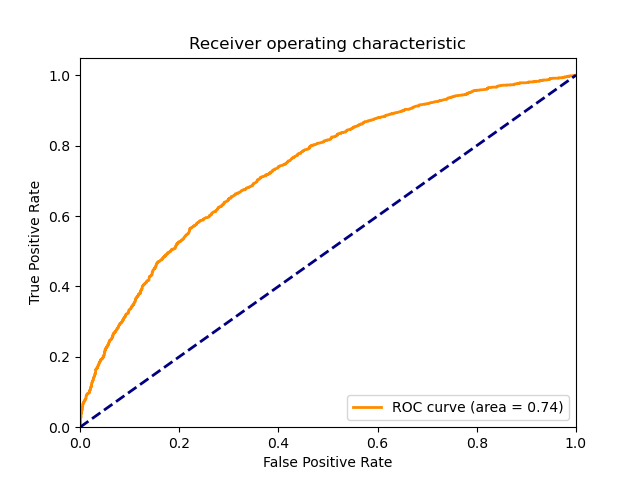
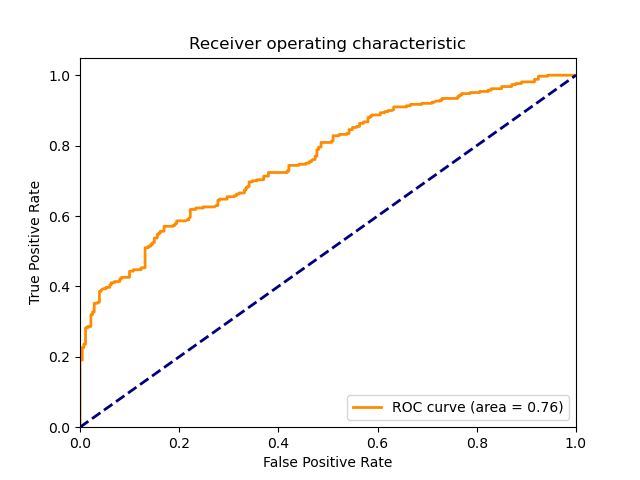
resnet50 test

diff --git a/nets/Resnet_raw.py b/nets/Resnet_raw.py
@@ -1,0 +1,204 @@
+import torch.nn as nn
+import torch
+
+
+class BasicBlock(nn.Module):
+    expansion = 1
+
+    def __init__(self, in_channel, out_channel, stride=1, downsample=None, **kwargs):
+        super(BasicBlock, self).__init__()
+        self.conv1 = nn.Conv2d(in_channels=in_channel, out_channels=out_channel,
+                               kernel_size=3, stride=stride, padding=1, bias=False)
+        self.bn1 = nn.BatchNorm2d(out_channel)
+        self.relu = nn.ReLU()
+        self.conv2 = nn.Conv2d(in_channels=out_channel, out_channels=out_channel,
+                               kernel_size=3, stride=1, padding=1, bias=False)
+        self.bn2 = nn.BatchNorm2d(out_channel)
+        self.downsample = downsample
+
+    def forward(self, x):
+        identity = x
+        if self.downsample is not None:
+            identity = self.downsample(x)
+
+        out = self.conv1(x)
+        out = self.bn1(out)
+        out = self.relu(out)
+
+        out = self.conv2(out)
+        out = self.bn2(out)
+
+        out += identity
+        out = self.relu(out)
+
+        return out
+
+
+class Bottleneck(nn.Module):
+    """
+    注意：原论文中，在虚线残差结构的主分支上，第一个1x1卷积层的步距是2，第二个3x3卷积层步距是1。
+    但在pytorch官方实现过程中是第一个1x1卷积层的步距是1，第二个3x3卷积层步距是2，
+    这么做的好处是能够在top1上提升大概0.5%的准确率。
+    可参考Resnet v1.5 https://ngc.nvidia.com/catalog/model-scripts/nvidia:resnet_50_v1_5_for_pytorch
+    """
+    expansion = 4
+
+    def __init__(self, in_channel, out_channel, stride=1, downsample=None,
+                 groups=1, width_per_group=64):
+        super(Bottleneck, self).__init__()
+
+        width = int(out_channel * (width_per_group / 64.)) * groups
+
+        self.conv1 = nn.Conv2d(in_channels=in_channel, out_channels=width,
+                               kernel_size=1, stride=1, bias=False)  # squeeze channels
+        self.bn1 = nn.BatchNorm2d(width)
+        # -----------------------------------------
+        self.conv2 = nn.Conv2d(in_channels=width, out_channels=width, groups=groups,
+                               kernel_size=3, stride=stride, bias=False, padding=1)
+        self.bn2 = nn.BatchNorm2d(width)
+        # -----------------------------------------
+        self.conv3 = nn.Conv2d(in_channels=width, out_channels=out_channel*self.expansion,
+                               kernel_size=1, stride=1, bias=False)  # unsqueeze channels
+        self.bn3 = nn.BatchNorm2d(out_channel*self.expansion)
+        self.relu = nn.ReLU(inplace=True)
+        self.downsample = downsample
+
+    def forward(self, x):
+        identity = x
+        if self.downsample is not None:
+            identity = self.downsample(x)
+
+        out = self.conv1(x)
+        out = self.bn1(out)
+        out = self.relu(out)
+
+        out = self.conv2(out)
+        out = self.bn2(out)
+        out = self.relu(out)
+
+        out = self.conv3(out)
+        out = self.bn3(out)
+
+        out += identity
+        out = self.relu(out)
+
+        return out
+
+
+class ResNet(nn.Module):
+
+    def __init__(self,
+                 block,
+                 blocks_num,
+                 num_classes=1000,
+                 include_top=True,
+                 groups=1,
+                 width_per_group=64):
+        super(ResNet, self).__init__()
+        self.include_top = include_top
+        self.in_channel = 64
+
+        self.groups = groups
+        self.width_per_group = width_per_group
+
+        self.conv1 = nn.Conv2d(3, self.in_channel, kernel_size=7, stride=2,
+                               padding=3, bias=False)
+        self.bn1 = nn.BatchNorm2d(self.in_channel)
+        self.relu = nn.ReLU(inplace=True)
+        self.maxpool = nn.MaxPool2d(kernel_size=3, stride=2, padding=1)
+        self.layer1 = self._make_layer(block, 64, blocks_num[0])
+        self.layer2 = self._make_layer(block, 128, blocks_num[1], stride=2)
+        self.layer3 = self._make_layer(block, 256, blocks_num[2], stride=2)
+        self.layer4 = self._make_layer(block, 512, blocks_num[3], stride=2)
+        if self.include_top:
+            self.avgpool = nn.AdaptiveAvgPool2d((1, 1))  # output size = (1, 1)
+            self.fc = nn.Linear(512 * block.expansion, num_classes)
+
+        for m in self.modules():
+            if isinstance(m, nn.Conv2d):
+                nn.init.kaiming_normal_(m.weight, mode='fan_out', nonlinearity='relu')
+
+    def _make_layer(self, block, channel, block_num, stride=1):
+        downsample = None
+        if stride != 1 or self.in_channel != channel * block.expansion:
+            downsample = nn.Sequential(
+                nn.Conv2d(self.in_channel, channel * block.expansion, kernel_size=1, stride=stride, bias=False),
+                nn.BatchNorm2d(channel * block.expansion))
+
+        layers = []
+        layers.append(block(self.in_channel,
+                            channel,
+                            downsample=downsample,
+                            stride=stride,
+                            groups=self.groups,
+                            width_per_group=self.width_per_group))
+        self.in_channel = channel * block.expansion
+
+        for _ in range(1, block_num):
+            layers.append(block(self.in_channel,
+                                channel,
+                                groups=self.groups,
+                                width_per_group=self.width_per_group))
+
+        return nn.Sequential(*layers)
+
+    def forward(self, x):
+        x = self.conv1(x)
+        x = self.bn1(x)
+        x = self.relu(x)
+        x = self.maxpool(x)
+
+        x = self.layer1(x)
+        x = self.layer2(x)
+        x = self.layer3(x)
+        x = self.layer4(x)
+
+        if self.include_top:
+            x = self.avgpool(x)
+            x = torch.flatten(x, 1)
+            x = self.fc(x)
+
+        return x
+
+
+def resnet34(num_classes=1000, include_top=True):
+    # https://download.pytorch.org/models/resnet34-333f7ec4.pth
+    return ResNet(BasicBlock, [3, 4, 6, 3], num_classes=num_classes, include_top=include_top)
+
+
+def resnet50(num_classes=1000, include_top=True):
+    # https://download.pytorch.org/models/resnet50-19c8e357.pth
+    return ResNet(Bottleneck, [3, 4, 6, 3], num_classes=num_classes, include_top=include_top)
+
+
+def resnet101(num_classes=1000, include_top=True):
+    # https://download.pytorch.org/models/resnet101-5d3b4d8f.pth
+    return ResNet(Bottleneck, [3, 4, 23, 3], num_classes=num_classes, include_top=include_top)
+
+
+def resnext50_32x4d(num_classes=1000, include_top=True):
+    # https://download.pytorch.org/models/resnext50_32x4d-7cdf4587.pth
+    groups = 32
+    width_per_group = 4
+    return ResNet(Bottleneck, [3, 4, 6, 3],
+                  num_classes=num_classes,
+                  include_top=include_top,
+                  groups=groups,
+                  width_per_group=width_per_group)
+
+
+def resnext101_32x8d(num_classes=1000, include_top=True):
+    # https://download.pytorch.org/models/resnext101_32x8d-8ba56ff5.pth
+    groups = 32
+    width_per_group = 8
+    return ResNet(Bottleneck, [3, 4, 23, 3],
+                  num_classes=num_classes,
+                  include_top=include_top,
+                  groups=groups,
+                  width_per_group=width_per_group)
+
+if __name__ == "__main__":
+    model = resnet50(num_classes=128, include_top=True)
+    x = torch.zeros([2,3,112,112])
+    out = model(x)
+    print("test")

diff --git a/train.py b/train.py
@@ -64,7 +64,7 @@ if __name__ == "__main__":
     #   如果使用mobilenetv1为主干,  则设置pretrain = True
     #   如果使用其它网络为主干，    则设置pretrain = False
     # --------------------------------------------------------#
-    backbone = "mobilefacenet_cbam_v3"
+    backbone = "resnet50"
     # ----------------------------------------------------------------------------------------------------------------------------#
     #   如果训练过程中存在中断训练的操作，可以将model_path设置成logs文件夹下的权值文件，将已经训练了一部分的权值再次载入。
     #   同时修改下方的训练的参数，来保证模型epoch的连续性。
@@ -75,7 +75,7 @@ if __name__ == "__main__":
     #   如果想要让模型从主干的预训练权值开始训练，则设置model_path = ''，pretrain = True，此时仅加载主干。
     #   如果想要让模型从0开始训练，则设置model_path = ''，pretrain = Fasle，此时从0开始训练。
     # ----------------------------------------------------------------------------------------------------------------------------#
-    model_path = "logs/ep001-loss24.053-val_loss22.590.pth"
+    model_path = ""
     # ----------------------------------------------------------------------------------------------------------------------------#
     #   是否使用主干网络的预训练权重，此处使用的是主干的权重，因此是在模型构建的时候进行加载的。
     #   如果设置了model_path，则主干的权值无需加载，pretrained的值无意义。
@@ -109,7 +109,7 @@ if __name__ == "__main__":
     # ------------------------------------------------------#
     Init_Epoch = 1
     Epoch = 50
-    batch_size = 64
+    batch_size = 4
 
     # ------------------------------------------------------------------#
     #   其它训练参数：学习率、优化器、学习率下降有关

diff --git a/nets/arcface.py b/nets/arcface.py
@@ -13,8 +13,7 @@ from nets.mobilefacenet_cbam_modify import get_mbf_cbam_modify
 from nets.mobilefacenet_cbam_v2 import get_mbf_cbam_v2
 from nets.mobilefacenet_cbam_v3 import get_mbf_cbam_v3
 from nets.mobilefacenet_cbam_v4 import get_mbf_cbam_v4
-
-
+from nets.Resnet_raw import resnet50
 class Arcface_Head(Module):
     def __init__(self, embedding_size=128, num_classes=10575, s=64., m=0.5):
         super(Arcface_Head, self).__init__()
@@ -47,6 +46,10 @@ class Arcface(nn.Module):
             embedding_size  = 128
             s               = 32
             self.arcface    = get_mbf(embedding_size=embedding_size, pretrained=pretrained)
+        elif backbone == "resnet50":
+            embedding_size  = 128
+            s               = 32
+            self.arcface    = resnet50(num_classes= embedding_size, include_top=True)
 
         elif backbone == "convNext":
             embedding_size = 512
@@ -86,6 +89,7 @@ class Arcface(nn.Module):
             self.head = Arcface_Head(embedding_size=embedding_size, num_classes=num_classes, s=s)
 
     def forward(self, x, y = None, mode = "predict"):
+
         x = self.arcface(x)
 
         x = x.view(x.size()[0], -1)
@@ -97,3 +101,9 @@ class Arcface(nn.Module):
             x = self.head(x, y)
             return x
 
+if __name__ == "__main__":
+    model =Arcface(backbone=resnet50)
+
+    x = torch.zeros([2,3,112,112])
+    out = model(x)
+    print("test")

diff --git a/eval_LFW.py b/eval_LFW.py
@@ -23,7 +23,7 @@ if __name__ == "__main__":
     #   iresnet100
     #   iresnet200
     #--------------------------------------#
-    backbone        = "mobilefacenet_cbam_v2"
+    backbone        = "mobilefacenet_cbam_v4"
     #--------------------------------------#
     #   输入图像大小
     #--------------------------------------#
@@ -31,13 +31,13 @@ if __name__ == "__main__":
     #--------------------------------------#
     #   训练好的权值文件
     #--------------------------------------#
-    model_path      = "result/mobilefacenet-webocc_cbam_mlfw_v2/ep050-loss14.097-val_loss14.346.pth"
+    model_path      = "result/mobilefacenet_cbam_web_v4/ep030-loss7.562-val_loss8.903.pth"
     #--------------------------------------#
     #   LFW评估数据集的文件路径
     #   以及对应的txt文件
     #--------------------------------------#
-    lfw_dir_path    = "ROF/combined"
-    lfw_pairs_path  = "ROF/ROFCombine_m_un_pairs_clean.txt"
+    lfw_dir_path    = "mfr2"
+    lfw_pairs_path  = "mfr2_pairs.txt"
     #--------------------------------------#
     #   评估的批次大小和记录间隔
     #--------------------------------------#

diff --git a/draw_cam.py b/draw_cam.py
@@ -67,8 +67,8 @@ if __name__ == "__main__":
     # --------------------------------------#
     backbone1 = "mobilefacenet"
     model_path1 = "result/mobileface-webocc-lfw/ep050-loss4.382-val_loss5.188.pth"
-    backbone2 = "convNext_cbam"
-    model_path2 = "result/conv_cbam_webocc_mlfw_modify/ep050-loss18.635-val_loss18.473.pth"
+    backbone2 = "mobilefacenet_cbam_v4"
+    model_path2 = "result/mobilefacenet_cbam_web_v4/ep030-loss7.562-val_loss8.903.pth"
     # --------------------------------------#
     #   输入图像大小
     # --------------------------------------#
@@ -107,7 +107,7 @@ if __name__ == "__main__":
     model2 = Arcface(backbone=backbone2, mode="predict")
     model2.load_state_dict(torch.load(model_path2, map_location=device), strict=False)
     model2 = model2.eval()
-    target_layers2 = [model2.arcface.stages[3]]
+    target_layers2 = [model2.arcface.sep]
 
     for batch in test_loader:
         if time <= num:

diff --git a/utils/test_pairs_anno_gen.py b/utils/test_pairs_anno_gen.py
@@ -8,6 +8,7 @@ match_list = []
 unmatch_list = []
 
 class_list = []
+MFR2 = "D:\\Files\\arcface-pytorch\\mfr2"
 COMBINE_PATH = "D:\\Files\\arcface-pytorch\\ROF\\combined"
 
 MASK_PATH = 'D:\\Files\\Dissertation\\ROF\\masked'
@@ -93,11 +94,11 @@ def CEF(path):
 if __name__ == "__main__":
 
     # CEF(GLASSES_PATH)
-    unmatch_list = generate_unmatch_list(COMBINE_PATH)
-    match_list = generate_match_list(COMBINE_PATH)
+    unmatch_list = generate_unmatch_list(MFR2)
+    match_list = generate_match_list(MFR2)
     combined_list = unmatch_list + match_list
     random.shuffle(combined_list)
-    f = open("D:\\Files\\Dissertation\\ROF\\Combine_pairs_clean.txt", "w")
+    f = open("D:\\Files\\arcface-pytorch\\mfr2_pairs.txt", "w")
     for i in combined_list:
         f.write(str(i).replace('[', '').replace(']', '').replace(',', '').replace('\'', '').replace('\'', '') + "\n")
     f.close()
